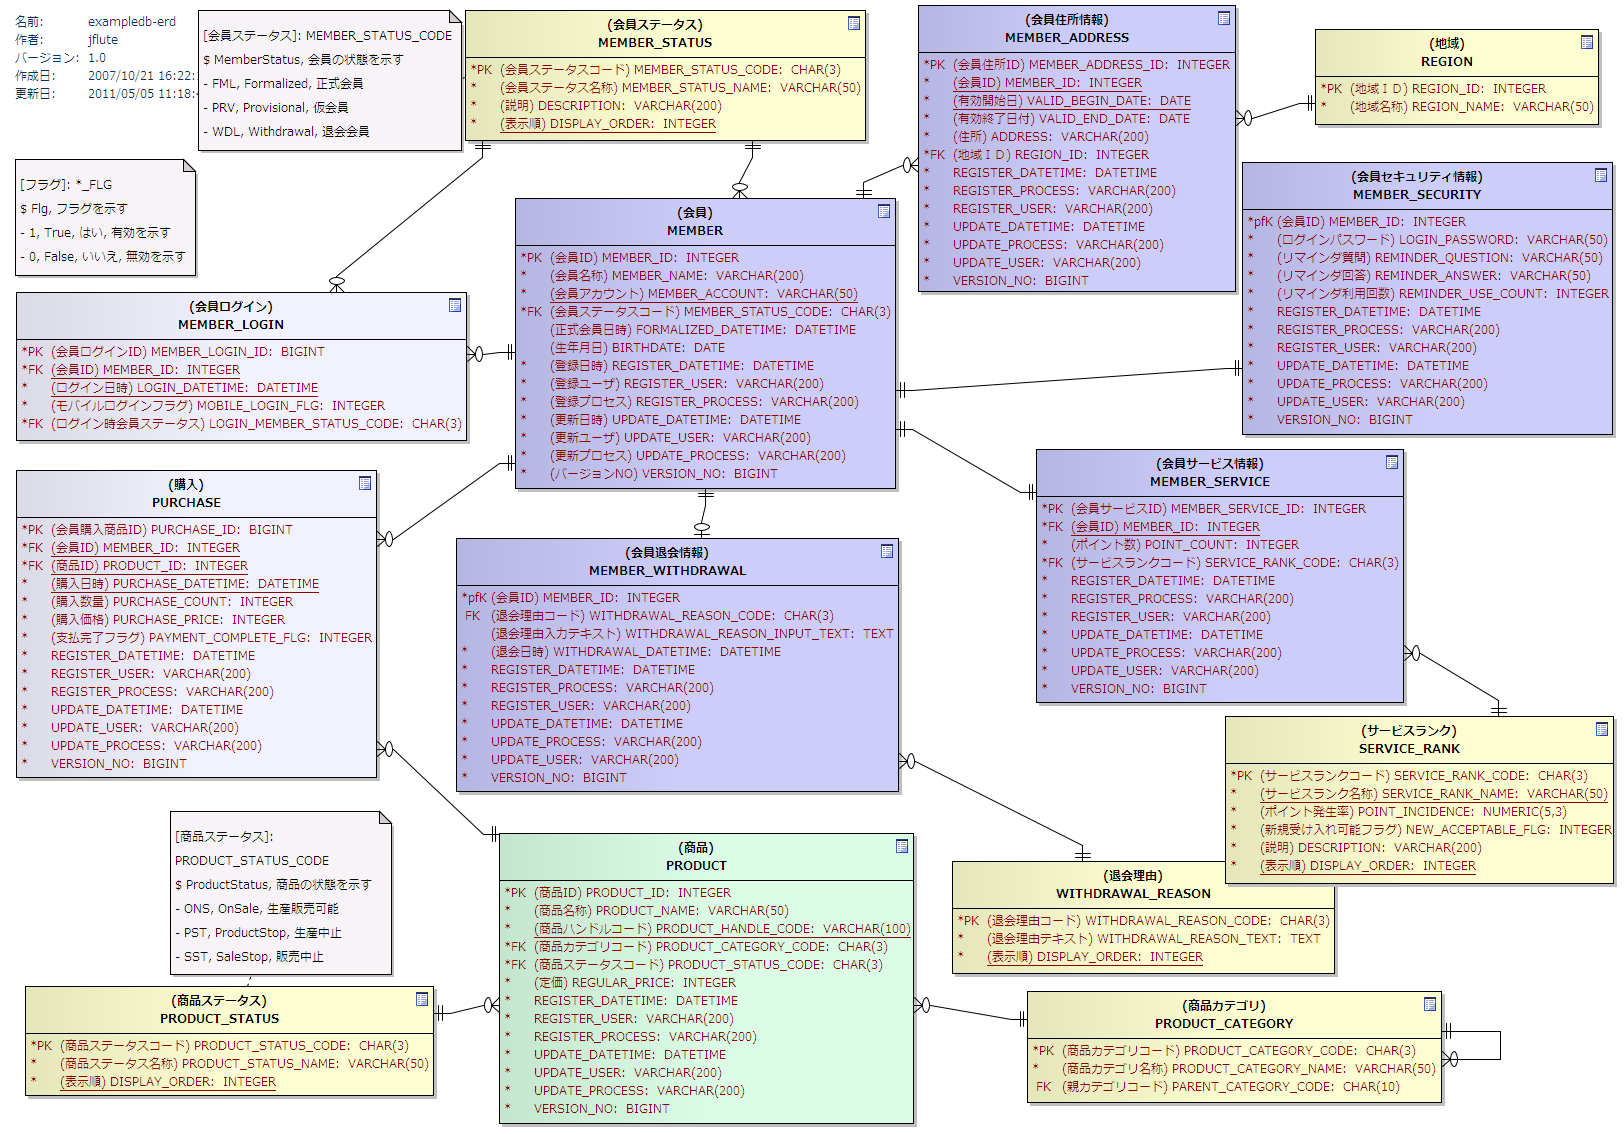
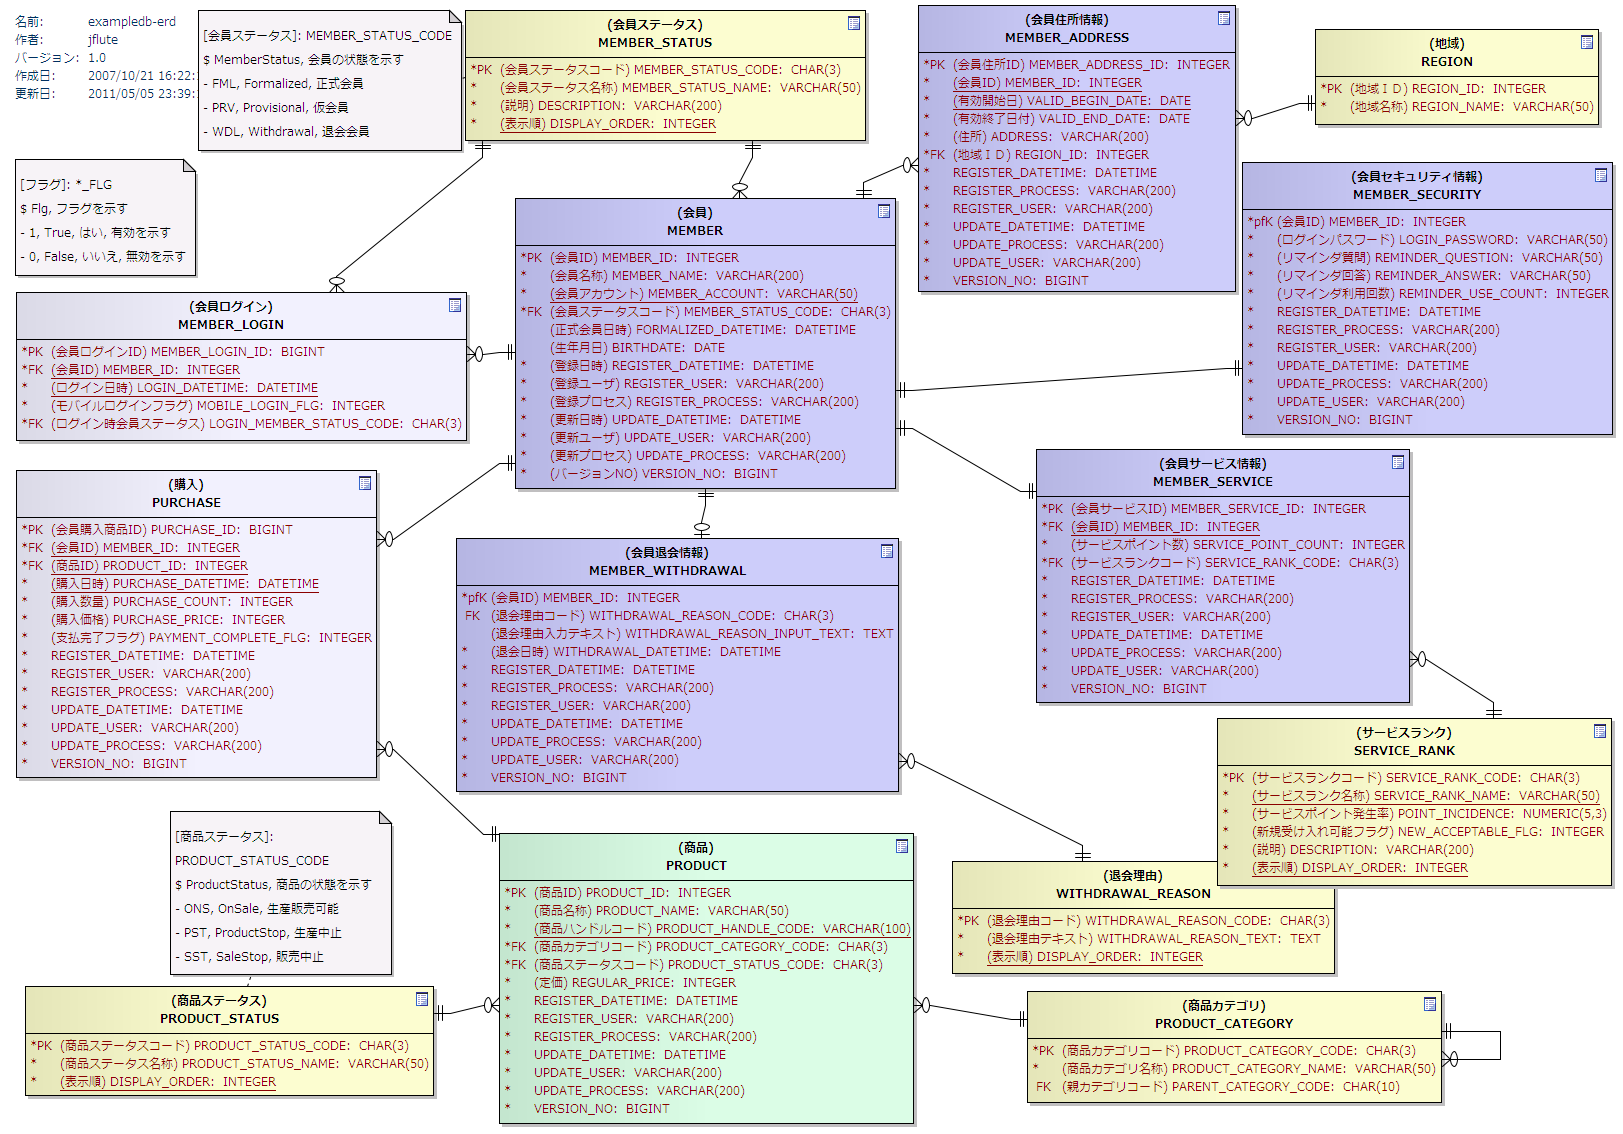
Prepare the hands-on tutorial project
git-svn-id: https://www.seasar.org/svn/dbflute/trunk/www@23395 b65849cc-091c-4ecd-8ca6-0d794ba8cb45

diff --git a/ja/view/exampledb/EARoot/EA11.html b/ja/view/exampledb/EARoot/EA11.html
@@ -120,19 +120,19 @@ function initPage(src) {
 					</div>
 				</td>
 			</tr>			<tr>
-				<td width="100%" class="TableRow" valign="top"><i>public INTEGER</i><br /><strong>&nbsp;&nbsp;POINT_COUNT</strong></td>
+				<td width="100%" class="TableRow" valign="top"><i>public INTEGER</i><br /><strong>&nbsp;&nbsp;SERVICE_POINT_COUNT</strong></td>
 			</tr>
 			<tr>
 				<td class="TableRowBottomDashed"  colspan="1">
 					<div class="DetailsDivParent"><img src="../images/minus03.gif" align="absmiddle" id="DetailsImageAttributes81" onclick="parent.toggleDiv('detailsDIVAttributes81','DetailsImageAttributes81')" />詳細:
 						<div id="detailsDIVAttributes81" class="DetailsDiv" >
-						<i>別名:</i> ポイント数<br><i>&lt;&lt;column&gt;&gt;</i><div class="ObjectDetailsNotes"><table>
+						<i>別名:</i> サービスポイント数<br><i>&lt;&lt;column&gt;&gt;</i><div class="ObjectDetailsNotes"><table>
 	<tr>
 		<td valign="top">
 			<i>ノート: </i><span style="margin-left: .4cm;"> </span>
 		</td>
 		<td>
-			会員が現在利用できるポイント数。&lt;br /&gt;基本的に、購入時には増えてポイントを使ったら減る。
+			会員が現在利用できるサービスポイントの数。&lt;br /&gt;基本的に、購入時には増えてポイントを使ったら減る。
 		</td>
 	</tr>
 </table></div>

diff --git a/ja/view/exampledb/EARoot/EA19.html b/ja/view/exampledb/EARoot/EA19.html
@@ -126,13 +126,13 @@ function initPage(src) {
 				<td class="TableRowBottomDashed"  colspan="1">
 					<div class="DetailsDivParent"><img src="../images/minus03.gif" align="absmiddle" id="DetailsImageAttributes197" onclick="parent.toggleDiv('detailsDIVAttributes197','DetailsImageAttributes197')" />詳細:
 						<div id="detailsDIVAttributes197" class="DetailsDiv" >
-						<i>別名:</i> ポイント発生率<br><i>&lt;&lt;column&gt;&gt;</i><div class="ObjectDetailsNotes"><table>
+						<i>別名:</i> サービスポイント発生率<br><i>&lt;&lt;column&gt;&gt;</i><div class="ObjectDetailsNotes"><table>
 	<tr>
 		<td valign="top">
 			<i>ノート: </i><span style="margin-left: .4cm;"> </span>
 		</td>
 		<td>
-			購入ごとのポイント発生率。&lt;br /&gt;購入価格にこの値をかけた数が発生ポイント。&lt;br /&gt;ExampleDBとして数少ない貴重な小数点ありのカラム。
+			購入ごとのサービスポイントの発生率。&lt;br /&gt;購入価格にこの値をかけた数が発生ポイント。&lt;br /&gt;ExampleDBとして数少ない貴重な小数点ありのカラム。
 		</td>
 	</tr>
 </table></div>

diff --git a/ja/view/exampledb/EARoot/EA1.html b/ja/view/exampledb/EARoot/EA1.html
@@ -20,8 +20,8 @@ function initPage(src) {
 
 <MAP NAME="EA2">
 <area shape="rect" coords="1315,29,1599,125" href="EA18.html">
-<area shape="rect" coords="1036,449,1404,703" href="EA11.html">
-<area shape="rect" coords="1225,716,1614,884" href="EA19.html">
+<area shape="rect" coords="1036,449,1410,703" href="EA11.html">
+<area shape="rect" coords="1217,718,1612,886" href="EA19.html">
 <area shape="rect" coords="1027,991,1442,1103" href="EA15.html">
 <area shape="rect" coords="918,5,1236,292" href="EA8.html">
 <area shape="rect" coords="15,159,195,275" href="EA3.html">
@@ -47,7 +47,7 @@ function initPage(src) {
 		</tr>
 		<tr>
 			<td width="15%" class="ObjectDetailsTopic">更新日:</td>
-			<td width="85%" class="ObjectDetailsValue">2011/05/05 11:18:45</td>
+			<td width="85%" class="ObjectDetailsValue">2011/05/05 23:39:14</td>
 		</tr>
 		<tr style="padding-top: 10px;">
 			<td width="15%" class="ObjectDetailsTopic"><img src="../images/plus03.gif" align="absmiddle" id="proj" onclick="parent.toggleData(this.id)" />プロジェクト:</td>
